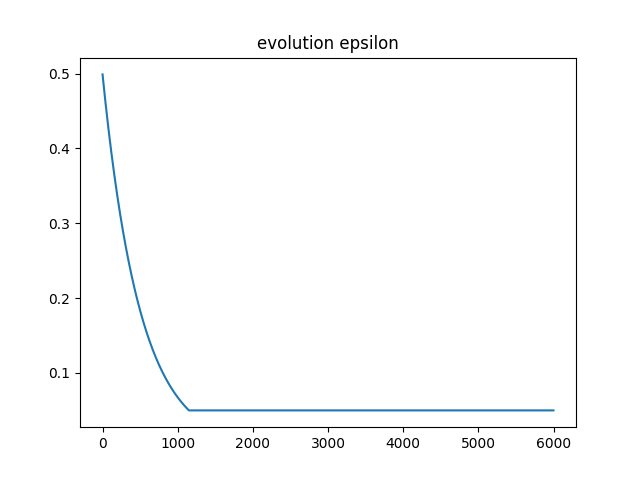
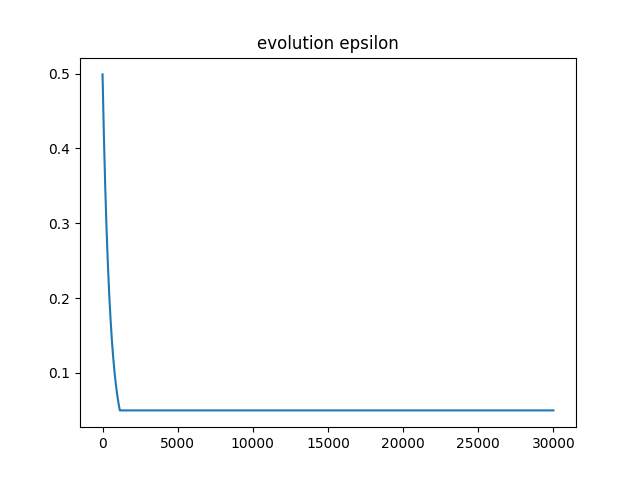
new fig

diff --git a/src/qagent.py b/src/qagent.py
@@ -15,7 +15,7 @@ import matplotlib.animation as animation
 timestamp = datetime.now().strftime("%d-%m")
 
 class Qagent:
-    def __init__(self, env, episodes= 5000, max_steps =2000,alpha = .1, epsilon = .5, gamma = 0.95, do_test = True):
+    def __init__(self, env, episodes= 5000, max_steps =2000,alpha = .1, epsilon = .6, gamma = 0.95, do_test = True):
         self.env= env
         self.episodes = episodes
         self.max_steps = max_steps
@@ -32,7 +32,8 @@ class Qagent:
 
         #False si l'on souhaite evaluer l'agent durant l'apprentissage
         self.do_test = do_test
-        self.eps = []
+        self.trace_qtable = np.zeros((self.env.nb_etat, self.env.nb_action))
+        self.trace_etat = np.zeros(self.env.nb_etat)
         #nombre de test à faire par phase de test durant l'apprentissage
 
     def train(self):
@@ -40,19 +41,17 @@ class Qagent:
             cum_reward = 0
             state= self.env.reset()
             for j in range(self.max_steps):
-
+                
                 action = self.epsilon_greedy(state)
                 next_state,reward,terminated = self.env.step(action)
                 self.update_q_table(state,action,next_state,reward)
                 state = next_state
                 cum_reward += reward
                 if terminated:  
-                    if reward!=100:
-                        print(i)               
+           
                     break
 
             self.epsilon = max(0.05, self.epsilon * 0.998)
-            self.eps.append(self.epsilon)
             if self.do_test and i%10 ==0:
                 nb_steps, cum_reward = self.test()
                 self.steps.append((i,nb_steps))
@@ -97,6 +96,8 @@ class Qagent:
     def update_q_table(self, state, action, next_state, reward):
         next_q = np.max(self.qtable[next_state])
         self.qtable[state, action] += self.alpha*(reward + self.gamma*next_q - self.qtable[state,action])
+        self.trace_qtable[state,action]+=1
+        self.trace_etat[state]+=1
 
 
     def save_rewards(self, filename):
@@ -119,9 +120,8 @@ class Qagent:
 
 
 
-
 if __name__ == "__main__":
-    agent = Qagent(MPR_env(custom=False, nb_round=1,nb_cp=2), do_test=True, episodes= 6000, max_steps=20000)
+    agent = Qagent(MPR_env(custom=False, nb_round=1,nb_cp=2), do_test=True, episodes= 10000, max_steps=20000)
 
     # np.save("qtable", agent.qtable)
     agent.train()
@@ -171,9 +171,19 @@ if __name__ == "__main__":
     plt.savefig(f"{GRAPH_PATH}/reward_per_ep_{timestamp}")
 
     plt.figure()
-    plt.plot(agent.eps)
-    plt.title("evolution epsilon")
-    plt.savefig(f"{GRAPH_PATH}/evolution_eps")
+    normalized_trace_qtable = agent.trace_qtable / np.max(agent.trace_qtable)
+    plt.matshow(normalized_trace_qtable, cmap = "viridis", aspect = "auto")
+    plt.colorbar()
+    plt.title("nombre de mise à jour de couple état action")
+    plt.savefig(f"{GRAPH_PATH}/trace_qtable_{timestamp}")
+
+
+
+    plt.figure()
+    plt.bar(np.arange(len(agent.trace_etat)),agent.trace_etat)
+    plt.title("nombre de mise à jour pur un etat")
+    plt.savefig(f"{GRAPH_PATH}/trace_state{timestamp}")
+
 
 
 

diff --git a/src/env_dir.py b/src/env_dir.py
@@ -9,7 +9,7 @@ from matplotlib.patches import Circle
 #Mad Pod Racing Environnement
 class MPR_env():
 
-    def __init__(self, discretisation = [7,4,4] ,nb_cp = 4,nb_round = 3,custom=False):
+    def __init__(self, discretisation = [9,4,4] ,nb_cp = 4,nb_round = 3,custom=False):
 
         self.board = Board(nb_cp, nb_round, custom)
         self.terminated = False
@@ -48,7 +48,7 @@ class MPR_env():
 
         self.vitesse.append(vitesse)
         # reward = np.clip(- (dist/(vitesse+1)) ,-100,0)*0.01
-        reward = -self.reward(dist)*0.1
+        reward = -self.reward(dist)*0.01
 
         # if self.next_cp_old != self.board.next_checkpoint:
         #     reward = 20
@@ -57,7 +57,7 @@ class MPR_env():
         if self.board.terminated:
             #arret a cause d'un timeout
             if self.board.pod.timeout<0:
-                reward = -100
+                reward = -50
                 self.terminated = True
             #arret fin de course
             else:
@@ -105,14 +105,15 @@ class MPR_env():
         x_past,y_past = self.past_pos
 
         angle_pod = math.degrees(math.atan2(y - y_past, x - x_past)) % 360
-
         error = (angle - self.board.pod.angle + 540) % 360 - 180
         # error = (angle - angle_pod + 540) % 360 - 180
         # print(error)
         # bins = [-90, -45, -10, -3, 3, 10 ,45, 90,180]
-        bins = [-90, -10, -3, 3, 10 , 90,180]
+        # bins = [-90, -10, -3, 3, 10 , 90]
+        bins = [-120,-90, -45,-5,5, 45 , 90,120]
+
+
         res = np.digitize(error, bins)
-        
         return res
 
 

diff --git a/src/MPRengine.py b/src/MPRengine.py
@@ -136,7 +136,7 @@ class Board():
         self.pod = Pod(first_cp_x, first_cp_y , 0 )
         x, y = self.pod.getCoord()
         x2, y2 = self.checkpoints[(self.next_checkpoint+1)%nb_cp].getCoord()
-        self.pod.angle = np.arctan2(y2 - y, x2 - x) * 180 / np.pi
+        self.pod.angle = np.random.randint(-180,180)
 
         
 
